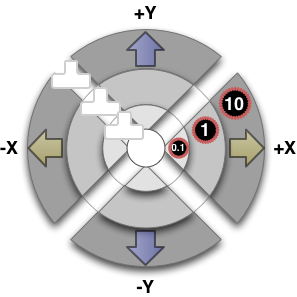
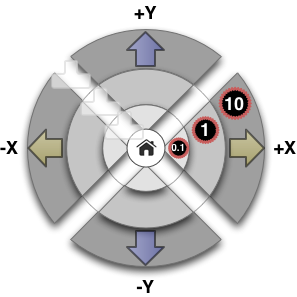
XY and Z control panels working side by side

diff --git a/test.py b/test.py
@@ -4,13 +4,99 @@ from bufferedcanvas import *
 def imagefile(filename):
     return os.path.join(os.path.dirname(__file__), "images", filename)
 
+def sign(n):
+    if n < 0: return -1
+    elif n > 0: return 1
+    else: return 0
+
+class ZButtons(BufferedCanvas):
+    button_ydistances = [16, 46, 80, 118]
+    center = (36, 147)
+
+    def __init__(self, parent, ID=-1):
+        self.bg_bmp = wx.Image(imagefile("control_z.png"),wx.BITMAP_TYPE_PNG).ConvertToBitmap()
+        self.range = None
+        self.direction = None
+        self.orderOfMagnitudeIdx = 0 # 0 means '1', 1 means '10', 2 means '100', etc.
+
+        BufferedCanvas.__init__(self, parent, ID)
+
+        self.SetSize(wx.Size(71, 297))
+
+        # Set up mouse and keyboard event capture
+        self.Bind(wx.EVT_LEFT_DOWN, self.OnLeftDown)
+        self.Bind(wx.EVT_LEFT_DCLICK, self.OnLeftDown)
+        self.Bind(wx.EVT_MOTION, self.OnMotion)
+
+    def lookupRange(self, ydist):
+        idx = -1
+        for d in ZButtons.button_ydistances:
+            if ydist < d:
+                return idx
+            idx += 1
+        return None
+    
+    def highlight(self, dc, rng, dir):
+        assert(rng >= -1 and rng <= 2)
+        assert(dir >= -1 and dir <= 1)
+
+        fudge = 10
+        x = 0 + fudge
+        w = 72 - fudge*2
+        if rng == -1:
+            y = ZButtons.center[1] - ZButtons.button_ydistances[0]
+            h = ZButtons.button_ydistances[0] * 2
+        else:
+            k = 1 if dir > 0 else 0
+            y = ZButtons.center[1] - (dir * ZButtons.button_ydistances[rng+k])
+            h = ZButtons.button_ydistances[rng+1] - ZButtons.button_ydistances[rng]
+        dc.DrawRectangle(x, y, w, h)
+        # self.drawPartialPie(dc, center, r1-inner_ring_radius, r2-inner_ring_radius, a1+fudge, a2-fudge)
+    
+    def getRangeDir(self, pos):
+        ydelta = ZButtons.center[1] - pos[1]
+        return (self.lookupRange(abs(ydelta)), sign(ydelta))
+
+    def OnMotion(self, event):
+        oldr, oldd = self.range, self.direction
+
+        mpos = event.GetPosition()
+        self.range, self.direction = self.getRangeDir(mpos)
+
+        if oldr != self.range or oldd != self.direction:
+            self.update()
+
+    def OnLeftDown(self, event):
+        mpos = event.GetPosition()
+        r, d = self.getRangeDir(mpos)
+        if r >= 0:
+            value = math.pow(10, self.orderOfMagnitudeIdx) * math.pow(10, r - 1) * d
+            print 'z', value
+        else:
+            print 'Z home' 
+
+    def draw(self, dc):
+        dc.Clear()
+        # center = wx.Point(XYButtons.center[0], XYButtons.center[1])
+
+        dc.SetPen(wx.Pen(wx.Colour(100,100,100,172), 4))
+        dc.SetBrush(wx.Brush(wx.Colour(0,0,0,128)))
+
+        dc.DrawBitmap(self.bg_bmp, 0, 0)
+
+        if self.range != None and self.direction != None:
+            self.highlight(dc, self.range, self.direction)
+
+        return True
+
+
 class XYButtons(BufferedCanvas):
     keypad_positions = {
         0: (102, 109),
         1: (78, 86),
         2: (49, 58)
     }
-    concentric_circle_radii = [19, 45, 81, 120]
+    concentric_circle_radii = [17, 45, 83, 122]
     center = (146, 149)
     distance = [
         # Order of Magnitude 0 (i.e. 0.1, 1, 10)
@@ -41,11 +127,13 @@ class XYButtons(BufferedCanvas):
         self.bg_bmp = wx.Image(imagefile("control_xy.png"),wx.BITMAP_TYPE_PNG).ConvertToBitmap()
         self.keypad_bmp = wx.Image(imagefile("arrow_keys.png"),wx.BITMAP_TYPE_PNG).ConvertToBitmap()
         self.keypad_idx = 0
-        self.orderOfMagnitude = 0
+        self.orderOfMagnitudeIdx = 0
         self.quadrant = None
         self.concentric = None
 
         BufferedCanvas.__init__(self, parent, ID)
+
+        self.SetSize(wx.Size(297, 297))
 
         # Set up mouse and keyboard event capture
         self.Bind(wx.EVT_LEFT_DOWN, self.OnLeftDown)
@@ -115,7 +203,7 @@ class XYButtons(BufferedCanvas):
         idx = self.mouseOverKeypad(mpos)
         if idx != None:
             self.quadrant = None
-            self.concentric = None
+            self.concentric = -1
         else:
             self.quadrant, self.concentric = self.getQuadrantConcentricFromPosition(mpos)
         
@@ -132,9 +220,9 @@ class XYButtons(BufferedCanvas):
         quadrant, concentric = self.getQuadrantConcentricFromPosition(mpos)
         # print 'click:', mpos, quadrant, concentric
         if concentric == -1:
-            print 'center button'
+            print 'XY home'
         elif quadrant != None and concentric != None:
-            dist = XYButtons.distance[self.orderOfMagnitude][quadrant][concentric]
+            dist = XYButtons.distance[self.orderOfMagnitudeIdx][quadrant][concentric]
             print 'x', dist[0], 'y', dist[1]
     
     def drawPartialPie(self, dc, center, r1, r2, angle1, angle2):
@@ -186,33 +274,36 @@ class XYButtons(BufferedCanvas):
         self.drawPartialPie(dc, center, r1-inner_ring_radius, r2-inner_ring_radius, a1+fudge, a2-fudge)
 
     def draw(self, dc):
-        # print 'draw called'
         dc.Clear()
         center = wx.Point(XYButtons.center[0], XYButtons.center[1])
 
-        start = wx.Point(50, 0)
-        end = wx.Point(0, 50)
         dc.SetPen(wx.Pen(wx.Colour(100,100,100,172), 4))
         dc.SetBrush(wx.Brush(wx.Colour(0,0,0,128)))
 
         dc.DrawBitmap(self.bg_bmp, 0, 0)
-        # dc.DrawArc(50, 0, 0, 50, XYButtons.center[0], XYButtons.center[1])
-        # self.drawPartialPie(dc, center, 19, 44, -math.pi/4, math.pi/4)
+
         if self.concentric == -1:
-            pass
+            inner_ring_radius = XYButtons.concentric_circle_radii[0]
+            dc.DrawCircle(XYButtons.center[0], XYButtons.center[1], inner_ring_radius+2)
         elif self.quadrant != None and self.concentric != None:
             self.highlightQuadrant(dc, self.quadrant, self.concentric)
 
         pos = XYButtons.keypad_positions[self.keypad_idx]
         dc.DrawBitmap(self.keypad_bmp, pos[0], pos[1])
-        # dc.DrawArcPoint(start, end, center)
+        
         return True
 
 
 class MyFrame(wx.Frame):
     def __init__(self, parent, id, title):
         wx.Frame.__init__(self, parent, id, title, wx.DefaultPosition, wx.Size(800, 600))
+        sizer = wx.BoxSizer()
         self.xy = XYButtons(self)
+        sizer.Add(self.xy)
+        self.z = ZButtons(self)
+        sizer.Add(self.z)
+
+        self.SetSizer(sizer)
 
 
 class MyApp(wx.App):
